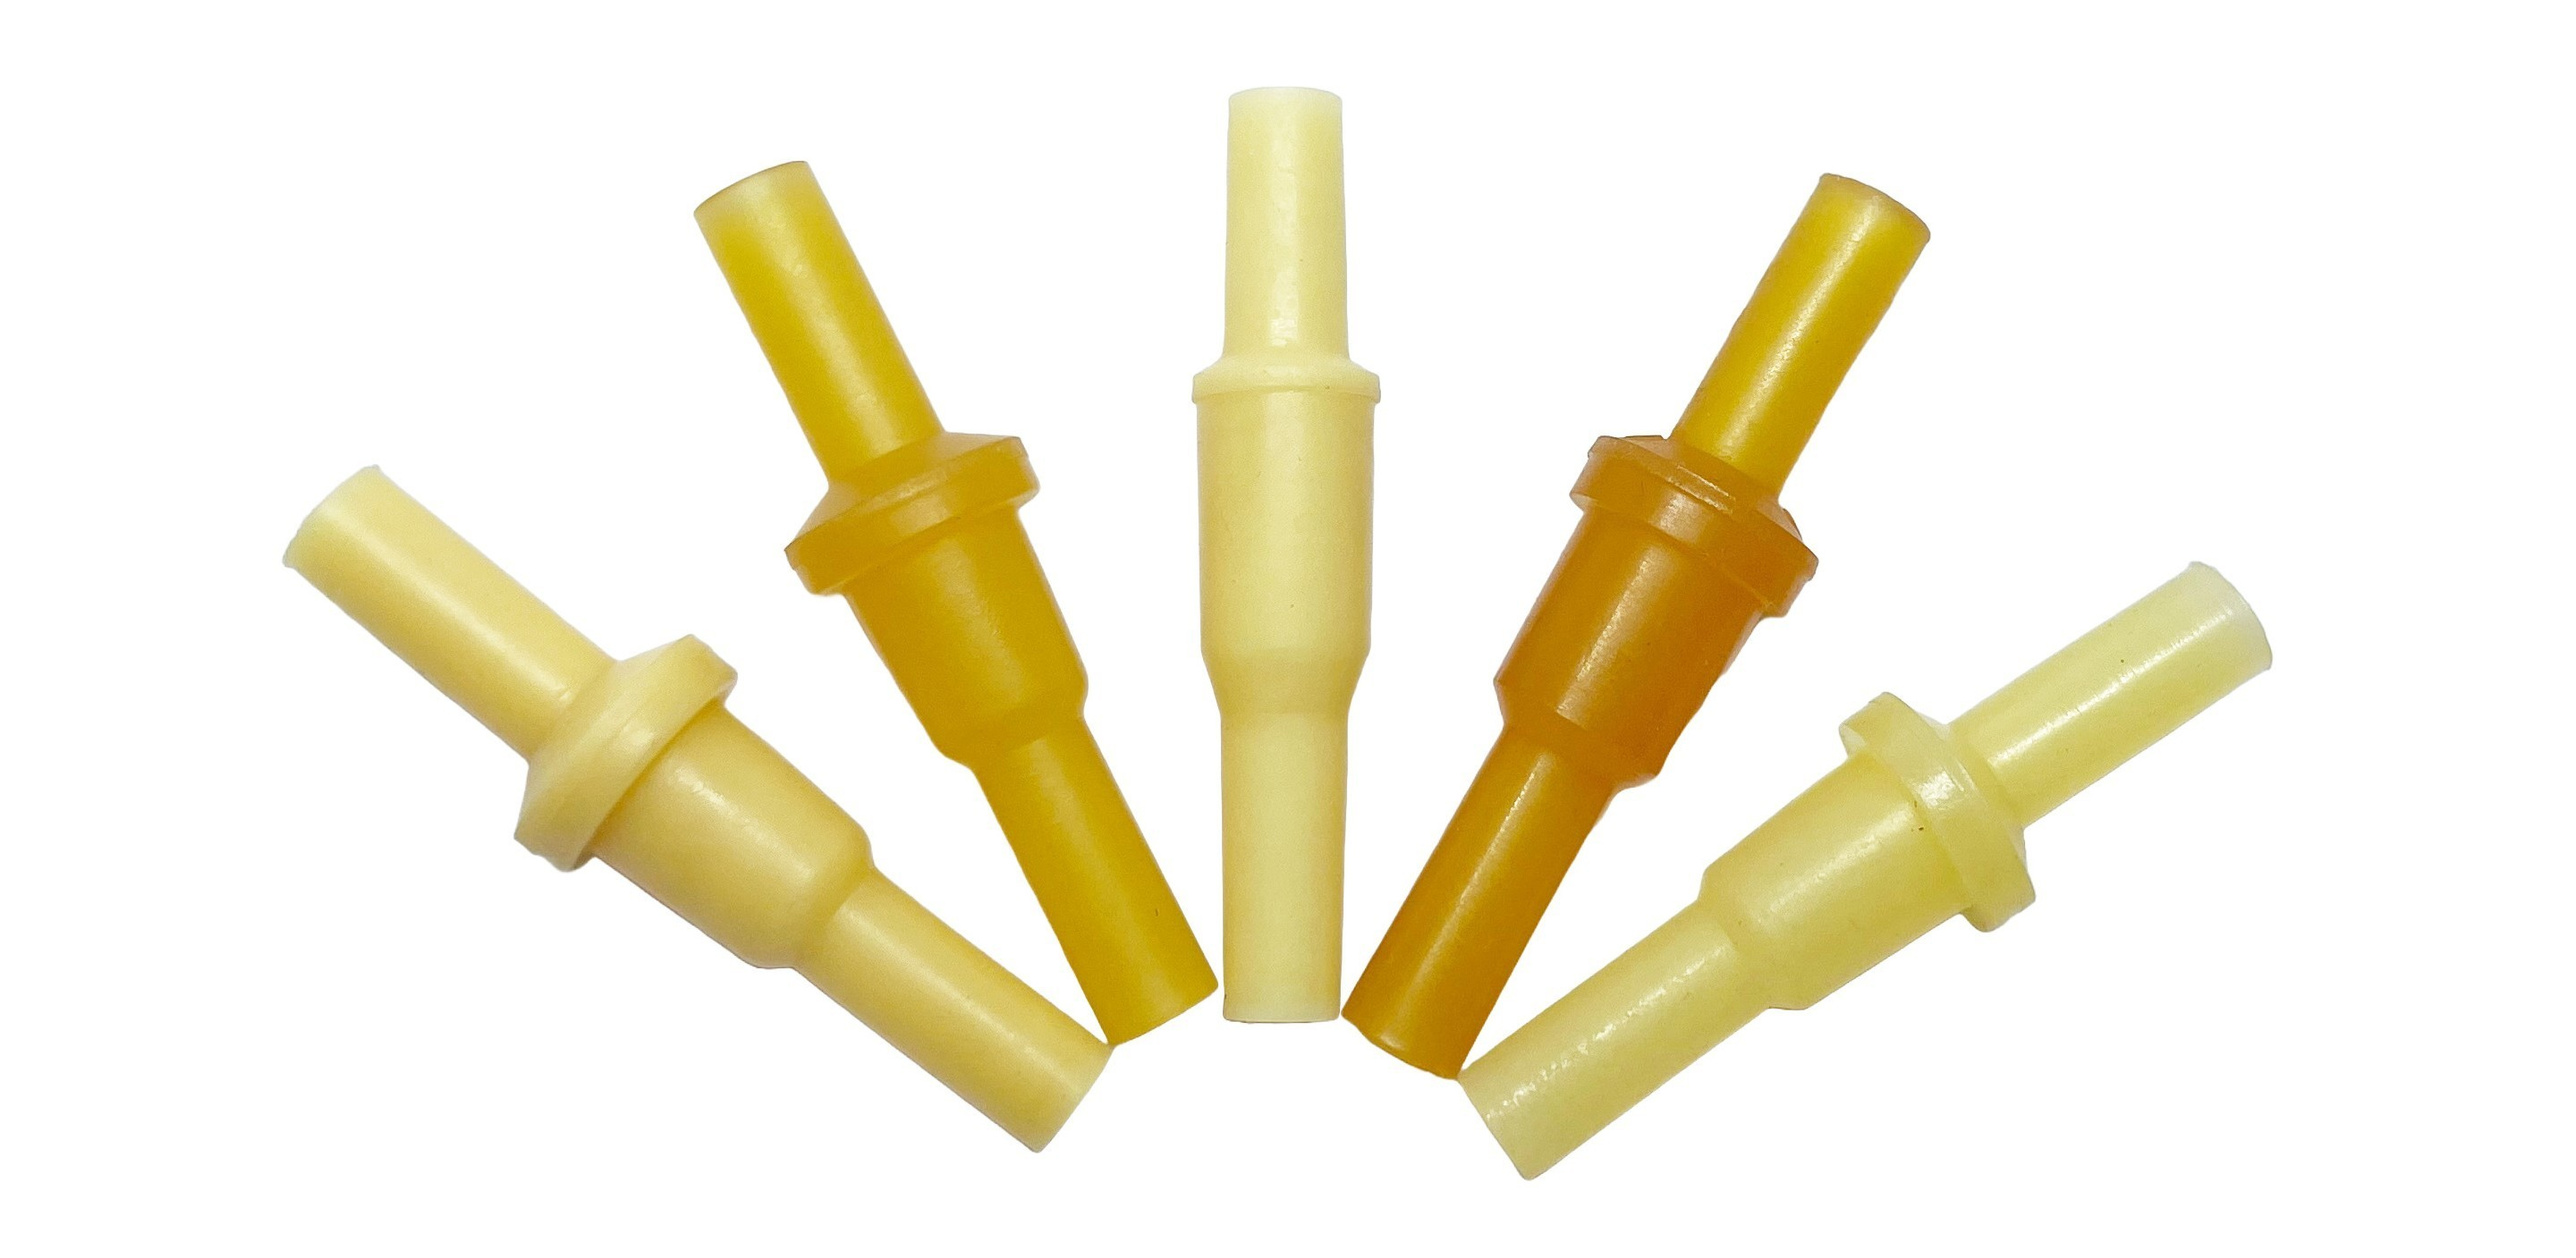
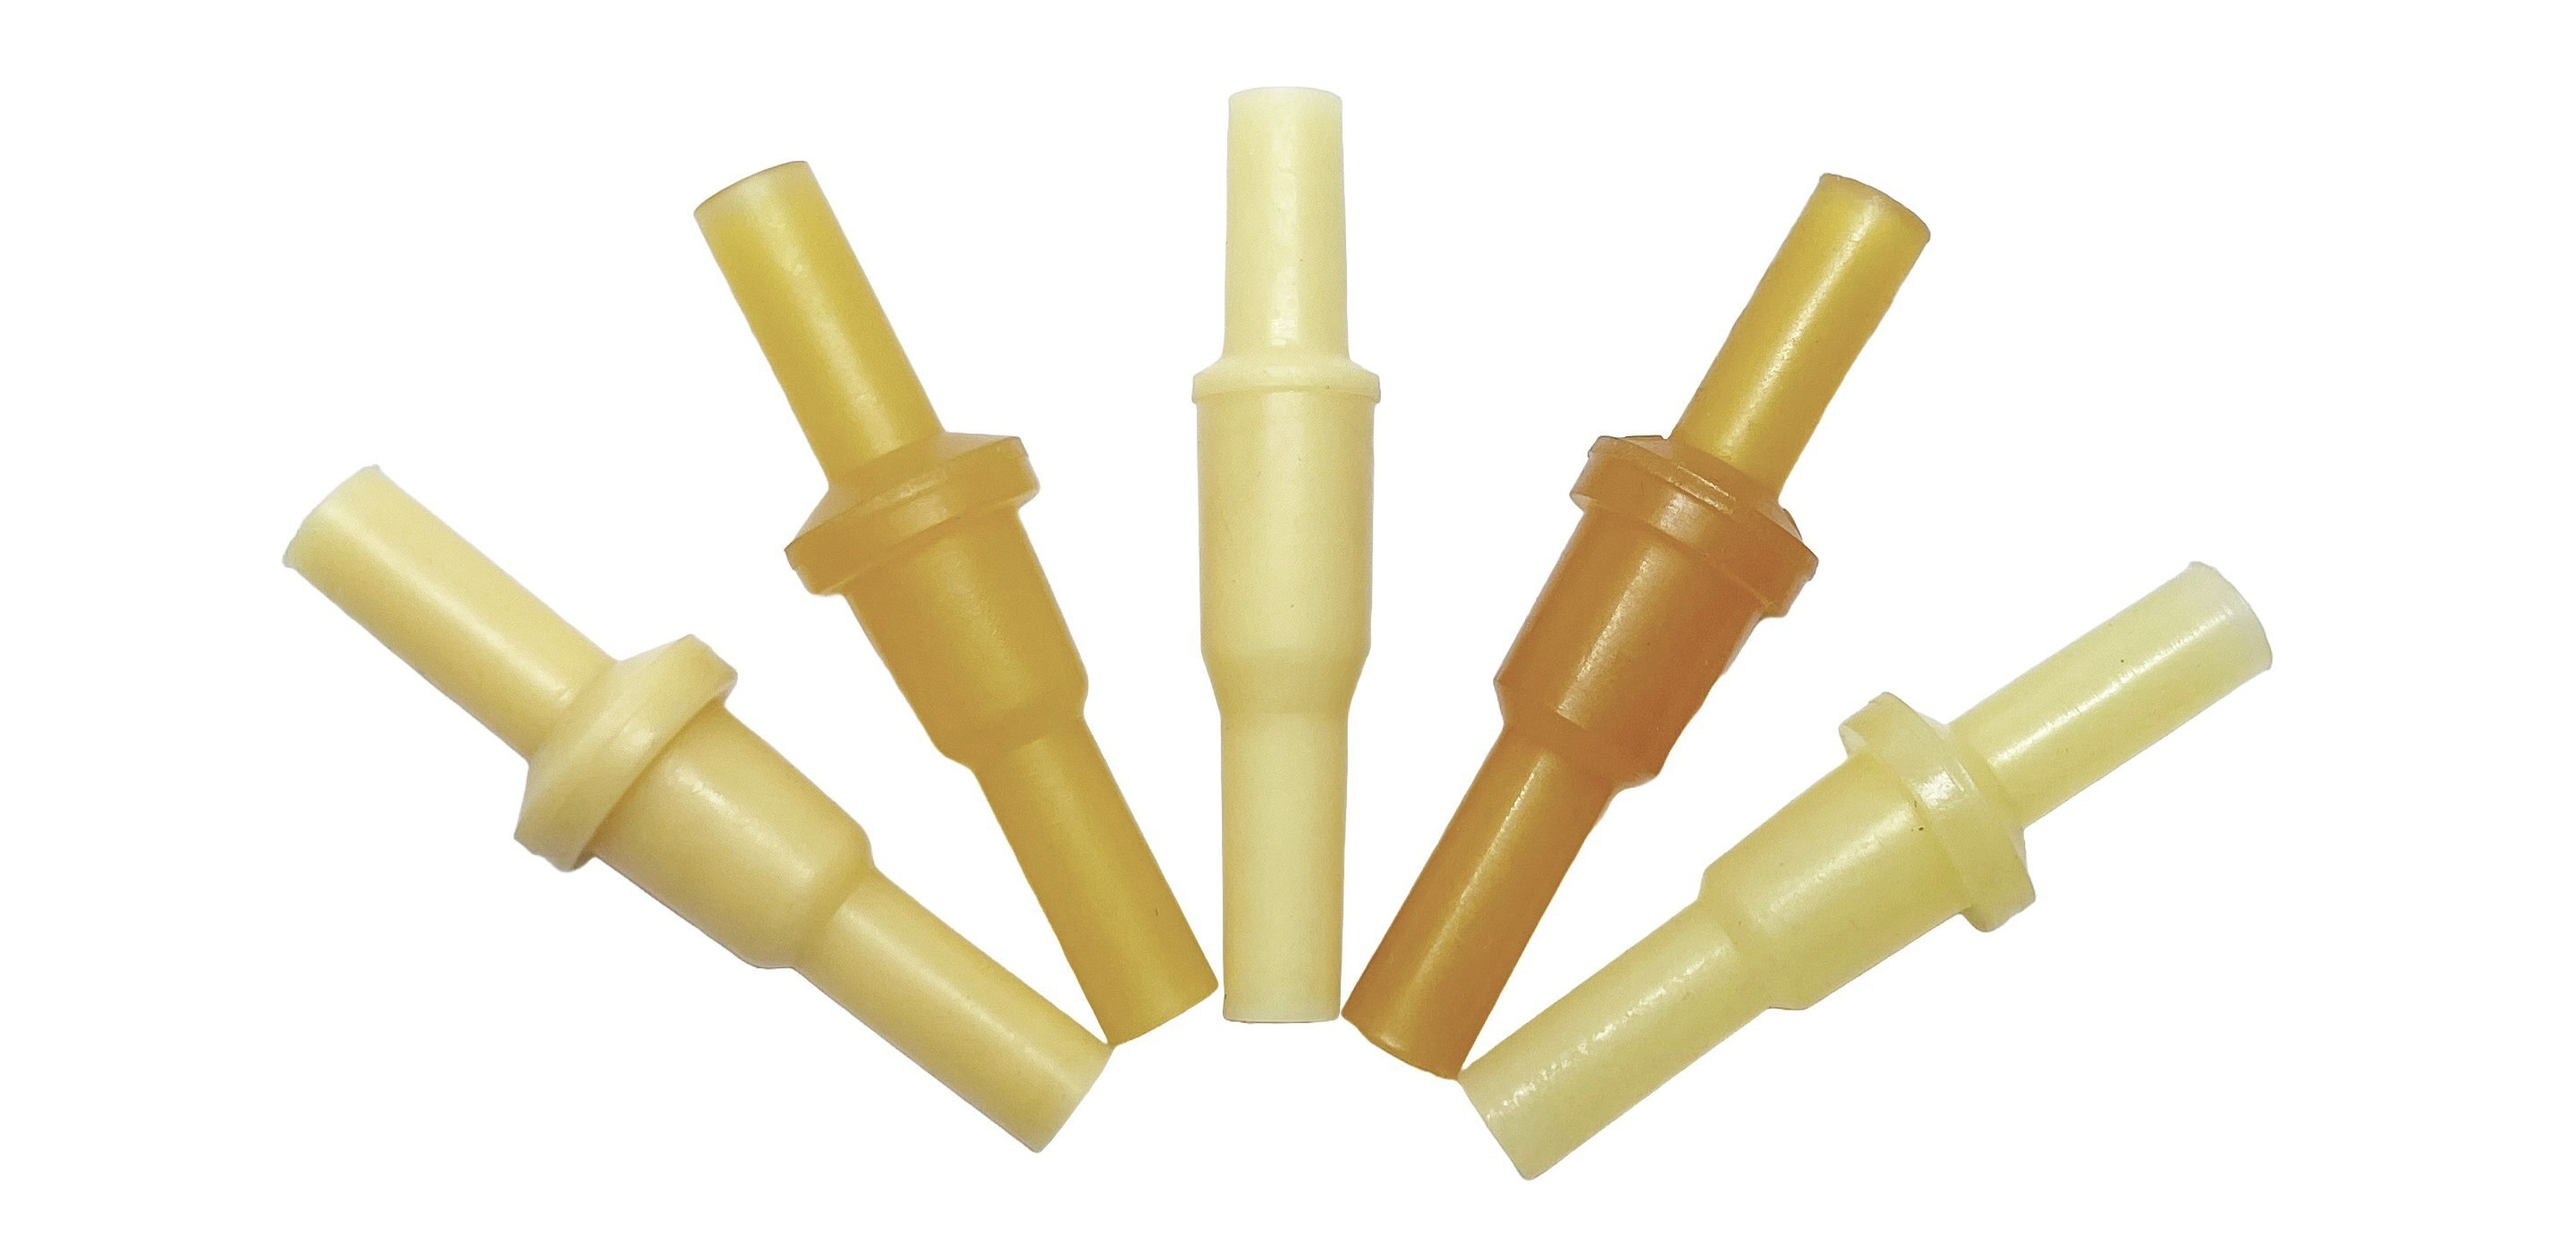
Update injection site stoppers image and injection site image saturation

diff --git a/stoppers_injection_site.html b/stoppers_injection_site.html
@@ -130,7 +130,7 @@
                   <div class="blog_left_sidebar w-100">
                           <div class="blog_item">
                               <div class="blog_item_img">
-                                  <img class="card-img rounded-0" src="assets/img/gallery/stoppers_injection_site.jpeg" alt="">
+                                  <img class="card-img rounded-0" src="assets/img/gallery/injection_site_stoppers.jpg" alt="">
                               </div>
                           </div>
                         </div>
